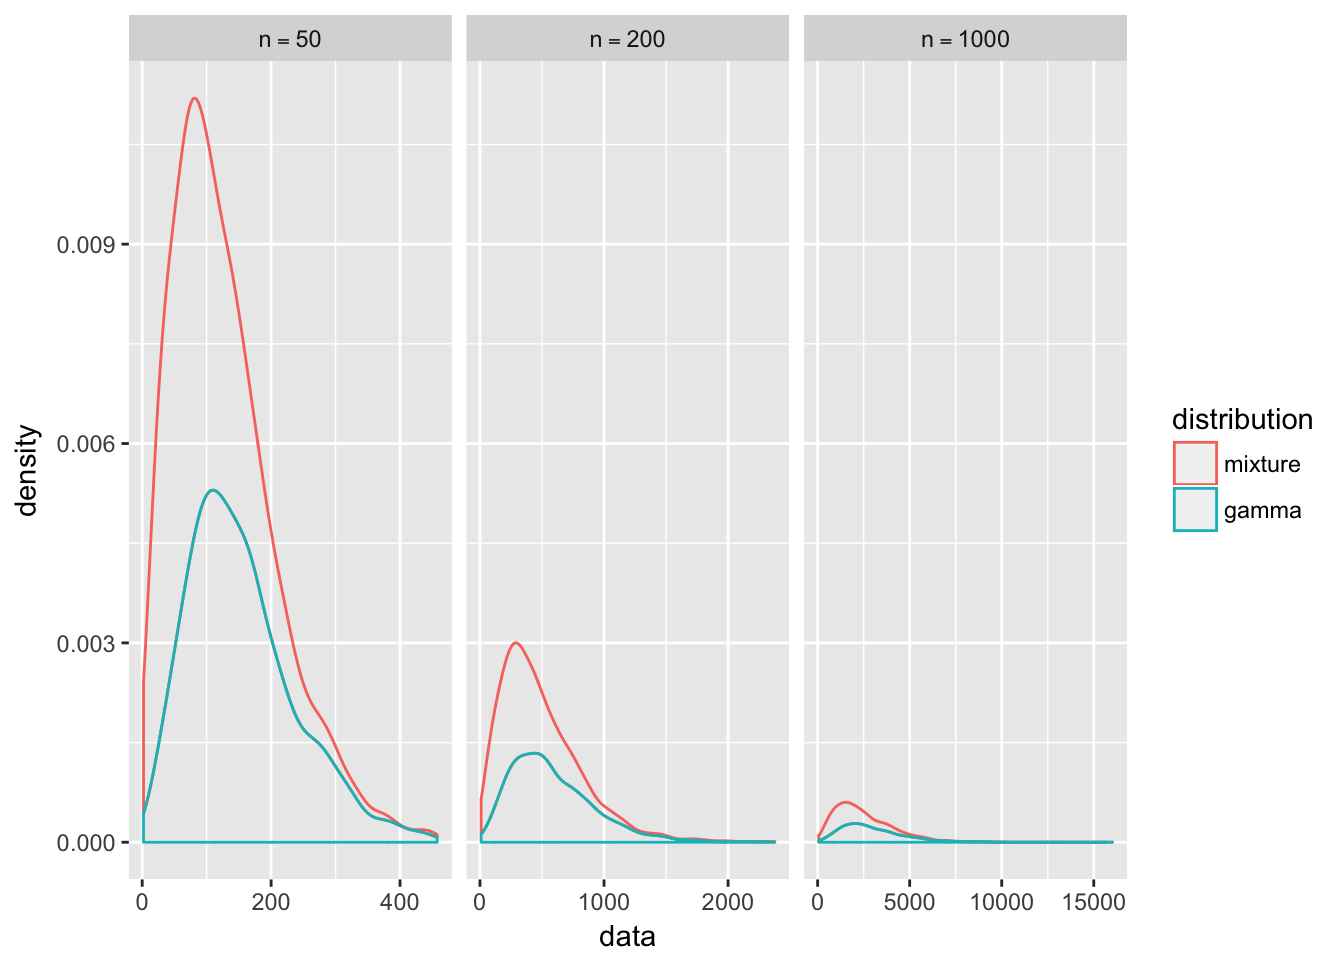
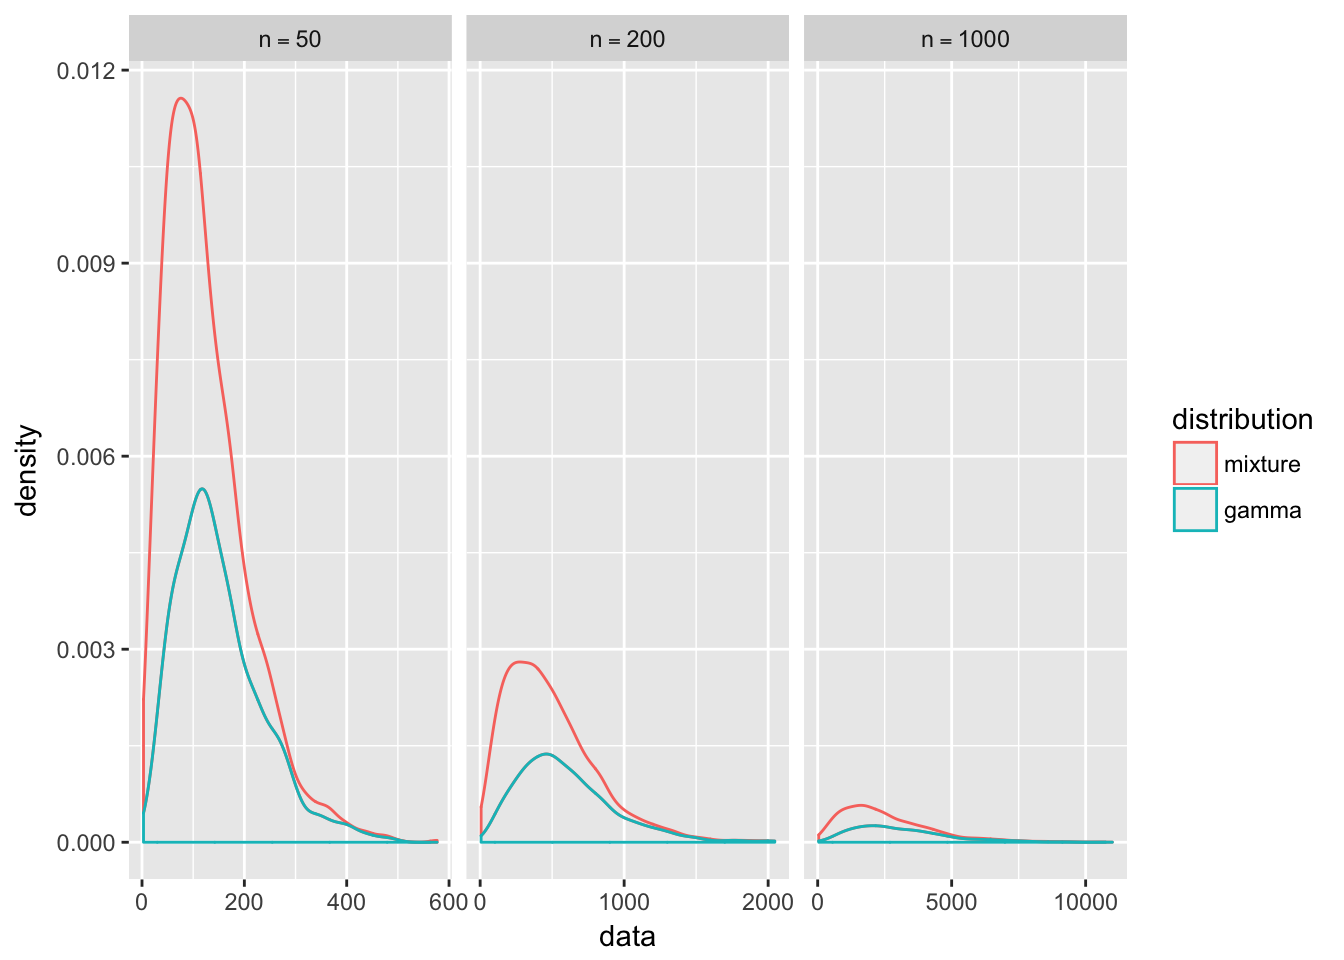
story

diff --git a/simulations.html b/simulations.html
@@ -195,6 +195,9 @@ $(document).ready(function () {
 <li>
   <a href="KDE.html">KDE</a>
 </li>
+<li>
+  <a href="https://docs.google.com/document/d/e/2PACX-1vTnpiuuxd0-ia3SMAk1SGusAyLyvwPN-wsl_dQCIC6Nglj0WgyTne0nYS1JISZZI6H-ym631b9B0kr0/pub">Novella</a>
+</li>
       </ul>
       <ul class="nav navbar-nav navbar-right">
         
@@ -321,7 +324,7 @@ while(k &lt; n){
     y[k] &lt;-  x
   }
 }</code></pre>
-<p>In this simulation, j = 7232 iterations were required to generate a sample of n = 1000 variates, compared to the expected <span class="math inline">\(cn =\)</span> 7159 iterations. Comparing the empirical and theoretical deciles confirms that our sample fits the beta distribution.</p>
+<p>In this simulation, j = 7240 iterations were required to generate a sample of n = 1000 variates, compared to the expected <span class="math inline">\(cn =\)</span> 7159 iterations. Comparing the empirical and theoretical deciles confirms that our sample fits the beta distribution.</p>
 <table>
 <caption>Pariwise comparison of empirical and theorectical quantile</caption>
 <thead>
@@ -341,15 +344,15 @@ while(k &lt; n){
 <tbody>
 <tr class="odd">
 <td>Qsim</td>
-<td align="right">0.1333256</td>
-<td align="right">0.1536372</td>
-<td align="right">0.1680996</td>
-<td align="right">0.1832314</td>
-<td align="right">0.1972999</td>
-<td align="right">0.2114056</td>
-<td align="right">0.2262943</td>
-<td align="right">0.2479219</td>
-<td align="right">0.2780545</td>
+<td align="right">0.1324365</td>
+<td align="right">0.1548029</td>
+<td align="right">0.1697671</td>
+<td align="right">0.1827297</td>
+<td align="right">0.1959144</td>
+<td align="right">0.2112678</td>
+<td align="right">0.2277108</td>
+<td align="right">0.2427553</td>
+<td align="right">0.2693267</td>
 </tr>
 <tr class="even">
 <td>Q</td>
@@ -394,12 +397,12 @@ knitr::kable(comp)</code></pre>
 <tr class="odd">
 <td>mean</td>
 <td align="right">6</td>
-<td align="right">5.792876</td>
+<td align="right">5.975381</td>
 </tr>
 <tr class="even">
 <td>variance</td>
 <td align="right">12</td>
-<td align="right">11.612502</td>
+<td align="right">11.686107</td>
 </tr>
 </tbody>
 </table>

diff --git a/story.html b/story.html
@@ -11,7 +11,7 @@
 
 
 
-<title>certificates</title>
+<title>Shifting Baselines</title>
 
 <script src="site_libs/jquery-1.11.3/jquery.min.js"></script>
 <meta name="viewport" content="width=device-width, initial-scale=1" />
@@ -208,14 +208,14 @@ $(document).ready(function () {
 
 
 
-<h1 class="title toc-ignore">certificates</h1>
+<h1 class="title toc-ignore">Shifting Baselines</h1>
+<h3 class="subtitle"><em>a very serious maritime space-opera</em></h3>
 
 </div>
 
 
-<embed src="Certificates/Rmarkdown.pdf" width="300" height="250" type='application/pdf'>
-<embed src="Certificates/certificate (1).pdf" width="300" height="250" type='application/pdf'>
-<embed src="Certificates/certificate.pdf" width="300" height="250" type='application/pdf'>
+<iframe src="https://docs.google.com/document/d/e/2PACX-1vTnpiuuxd0-ia3SMAk1SGusAyLyvwPN-wsl_dQCIC6Nglj0WgyTne0nYS1JISZZI6H-ym631b9B0kr0/pub?embedded=true" width="960" px, height="1024" px>
+</iframe>
 
 
 

diff --git a/KDE.html b/KDE.html
@@ -193,6 +193,9 @@ $(document).ready(function () {
 <li>
   <a href="KDE.html">KDE</a>
 </li>
+<li>
+  <a href="https://docs.google.com/document/d/e/2PACX-1vTnpiuuxd0-ia3SMAk1SGusAyLyvwPN-wsl_dQCIC6Nglj0WgyTne0nYS1JISZZI6H-ym631b9B0kr0/pub">Novella</a>
+</li>
       </ul>
       <ul class="nav navbar-nav navbar-right">
         

diff --git a/README.html b/README.html
@@ -193,6 +193,9 @@ $(document).ready(function () {
 <li>
   <a href="KDE.html">KDE</a>
 </li>
+<li>
+  <a href="https://docs.google.com/document/d/e/2PACX-1vTnpiuuxd0-ia3SMAk1SGusAyLyvwPN-wsl_dQCIC6Nglj0WgyTne0nYS1JISZZI6H-ym631b9B0kr0/pub">Novella</a>
+</li>
       </ul>
       <ul class="nav navbar-nav navbar-right">
         

diff --git a/about.html b/about.html
@@ -193,6 +193,9 @@ $(document).ready(function () {
 <li>
   <a href="KDE.html">KDE</a>
 </li>
+<li>
+  <a href="https://docs.google.com/document/d/e/2PACX-1vTnpiuuxd0-ia3SMAk1SGusAyLyvwPN-wsl_dQCIC6Nglj0WgyTne0nYS1JISZZI6H-ym631b9B0kr0/pub">Novella</a>
+</li>
       </ul>
       <ul class="nav navbar-nav navbar-right">
         

diff --git a/index.html b/index.html
@@ -193,6 +193,9 @@ $(document).ready(function () {
 <li>
   <a href="KDE.html">KDE</a>
 </li>
+<li>
+  <a href="https://docs.google.com/document/d/e/2PACX-1vTnpiuuxd0-ia3SMAk1SGusAyLyvwPN-wsl_dQCIC6Nglj0WgyTne0nYS1JISZZI6H-ym631b9B0kr0/pub">Novella</a>
+</li>
       </ul>
       <ul class="nav navbar-nav navbar-right">
         

diff --git a/topology.html b/topology.html
@@ -193,6 +193,9 @@ $(document).ready(function () {
 <li>
   <a href="KDE.html">KDE</a>
 </li>
+<li>
+  <a href="https://docs.google.com/document/d/e/2PACX-1vTnpiuuxd0-ia3SMAk1SGusAyLyvwPN-wsl_dQCIC6Nglj0WgyTne0nYS1JISZZI6H-ym631b9B0kr0/pub">Novella</a>
+</li>
       </ul>
       <ul class="nav navbar-nav navbar-right">
         
